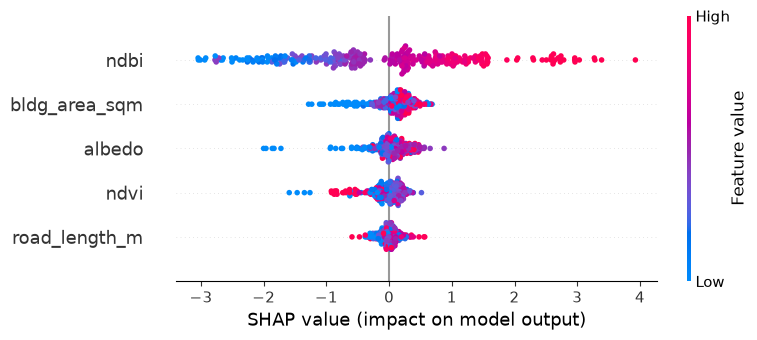
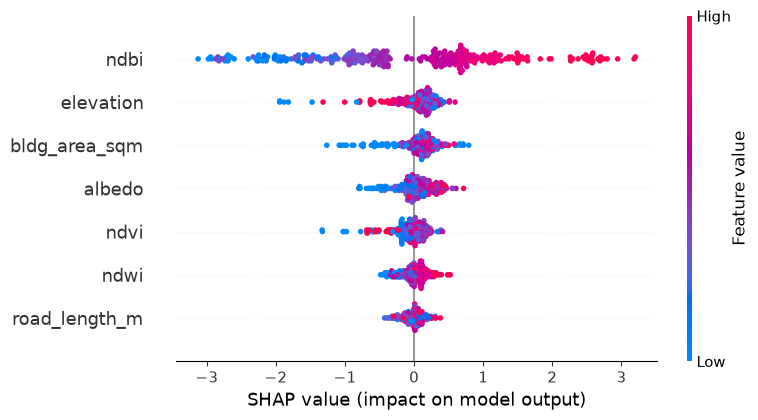
feat: upgraded XGBoost engine to 7 features, achieving 0.68 R-squared

diff --git a/model_pipeline.py b/model_pipeline.py
@@ -19,7 +19,7 @@ df = pd.read_csv("ward1_processed.csv")
 df['target_temp_c'] = (df['target_temp'] * 0.00341802) + 149.0 - 273.15
 
 # TASK 2: Standard Train/Test Split
-features = ['bldg_area_sqm', 'road_length_m', 'ndvi', 'ndbi', 'albedo']
+features = ['bldg_area_sqm', 'road_length_m', 'ndvi', 'ndbi', 'albedo', 'ndwi', 'elevation']
 
 X = df[features]
 y = df['target_temp_c']
